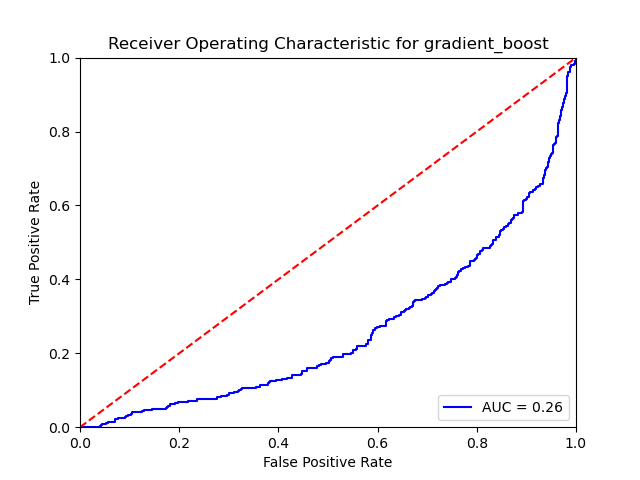
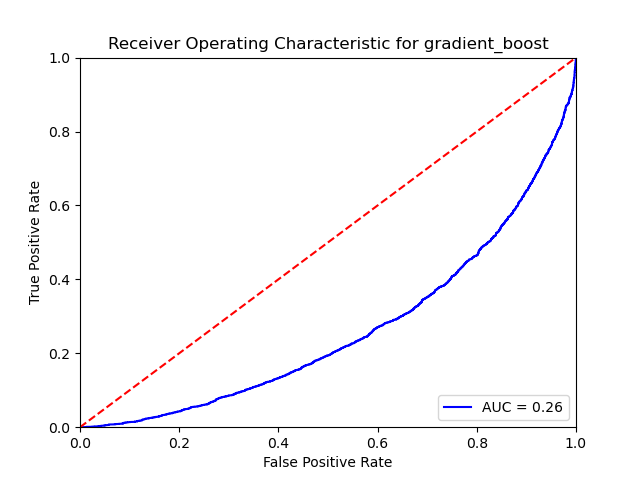
enhancement: forward feature selection

diff --git a/utils/train.py b/utils/train.py
@@ -5,6 +5,7 @@ from const import project_dir_path, data_dir_path, individual_window_size, head_
     pca_n_components
 from data_loader.data_split import split_feature_and_labels, get_train_test_split
 from utils.classification_stats import ClassificationStatistics
+from data_loader.feature_selector import FeatureSelector
 
 import pandas as pd
 import os.path as osp
@@ -12,7 +13,7 @@ import os.path as osp
 from utils.preprocess import generate_features
 
 
-def train(model_name, do_pca=False, tune=False):
+def train(model_name, do_pca=False, tune=False, select_features=True):
     model = None
     print('Loading data')
     try:
@@ -24,19 +25,23 @@ def train(model_name, do_pca=False, tune=False):
         features = pd.read_csv(osp.join(data_dir_path, 'features_last_' + str(last_n_data) + '_windows_' + str(
             individual_window_size) + '_' + str(head_to_head_window_size) + '.csv'))
     X_train, y_train = split_feature_and_labels(features)
+    y_train = y_train.iloc[:, :1].squeeze()
     print('Data loaded')
+    if model_name == 'random_forest':
+        model = RandomForest()
+    elif model_name == 'gradient_boost':
+        model = GradientBoost()
+    if select_features:
+        print('Selecting features')
+        feature_selector = FeatureSelector(model, X_train, y_train)
+        selected_features = feature_selector.select_features()
     if do_pca:
         print('Performing PCA')
         pca = PCATransform(n_components=pca_n_components)
         pca.fit(X_train)
         pca_X_train = pca.transform(X_train)
+    X_train = X_train[selected_features] if select_features else X_train
     x_train, x_test, y_train, y_test = get_train_test_split(pca_X_train if do_pca else X_train, y_train)
-    y_train = y_train.iloc[:, :1].squeeze()
-    y_test = y_test.iloc[:, :1].squeeze()
-    if model_name == 'random_forest':
-        model = RandomForest()
-    elif model_name == 'gradient_boost':
-        model = GradientBoost()
     if tune:
         model.tune(x_train, y_train)
     else:

diff --git a/data_loader/feature_selector.py b/data_loader/feature_selector.py
@@ -1,0 +1,30 @@
+from sklearn.feature_selection import SequentialFeatureSelector
+from sklearn.metrics import accuracy_score
+from data_loader.data_split import split_feature_and_labels, get_train_test_split
+
+
+class FeatureSelector:
+    def __init__(self, model, x_train, y_train):
+        self._model = model
+        self._x_train, self._x_cv, self._y_train, self._y_cv = get_train_test_split(x_train, y_train)
+        self._feature_names = self._x_train.columns
+
+    def select_features(self):
+        selected_features = []
+        best_accuracy = 0.0
+        for feature in self._feature_names:
+            best_feature = None
+            for i in self._feature_names:
+                if i not in selected_features:
+                    trial_features = selected_features + [i]
+                    self._model.fit(self._x_train[trial_features], self._y_train)
+                    y_pred = self._model.predict(self._x_cv[trial_features])
+                    accuracy = accuracy_score(self._y_cv, y_pred)
+                    if accuracy > best_accuracy - 0.01:
+                        best_feature = i
+                        best_accuracy = accuracy
+            if best_feature is not None:
+                selected_features.append(best_feature)
+            else:
+                break
+        return selected_features

diff --git a/main.py b/main.py
@@ -13,12 +13,13 @@ def arg_parser():
                         choices=models)
     parser.add_argument('--tune', action='store_true', help='Tune hyperparameters for the model')
     parser.add_argument('--do_pca', action='store_true', help='Perform PCA on the data')
+    parser.add_argument('--select_features', action='store_true', help='Generate features from the data')
     return parser.parse_args()
 
 
 if __name__ == '__main__':
     args = arg_parser()
     if args.task == 'train':
-        train(args.model, args.do_pca, args.tune)
+        train(args.model, args.do_pca, args.tune, args.select_features)
     elif args.task == 'preprocess':
         generate_features()

diff --git a/const.py b/const.py
@@ -23,8 +23,8 @@ models = ['random_forest', 'logistic_regression', 'gradient_boost']
 # ----Feature Selection Hyperparameters---- #
 individual_window_size = 5
 head_to_head_window_size = 5
-last_n_data = 5000
-pca_n_components = 15
+last_n_data = 40000
+pca_n_components = 5
 
 # ----Hyperparameter Search Space for Random Forest---- #
 random_forest_params = {'n_estimators': [int(x) for x in np.linspace(start=100, stop=1000, num=50)],
